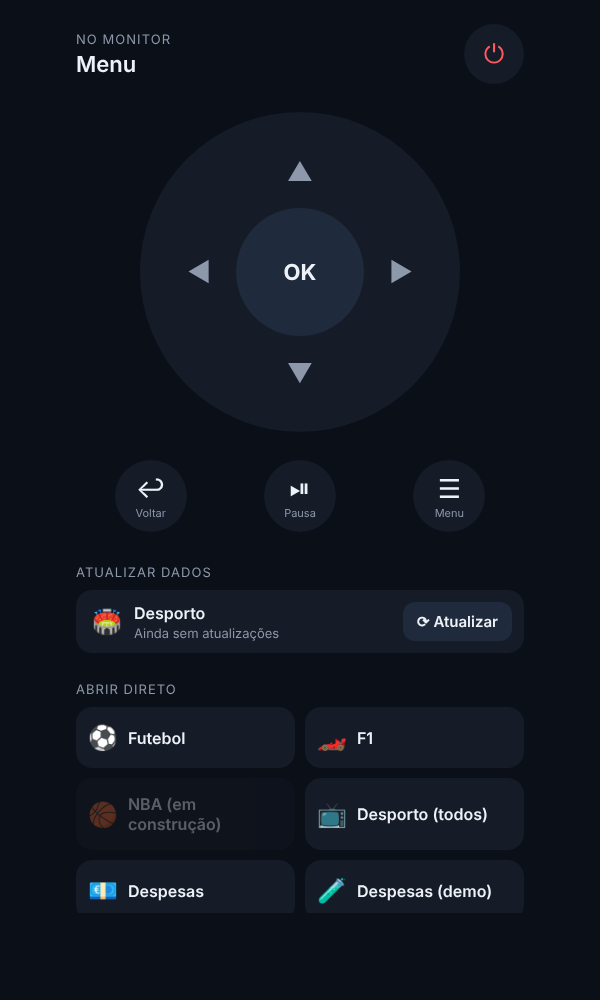
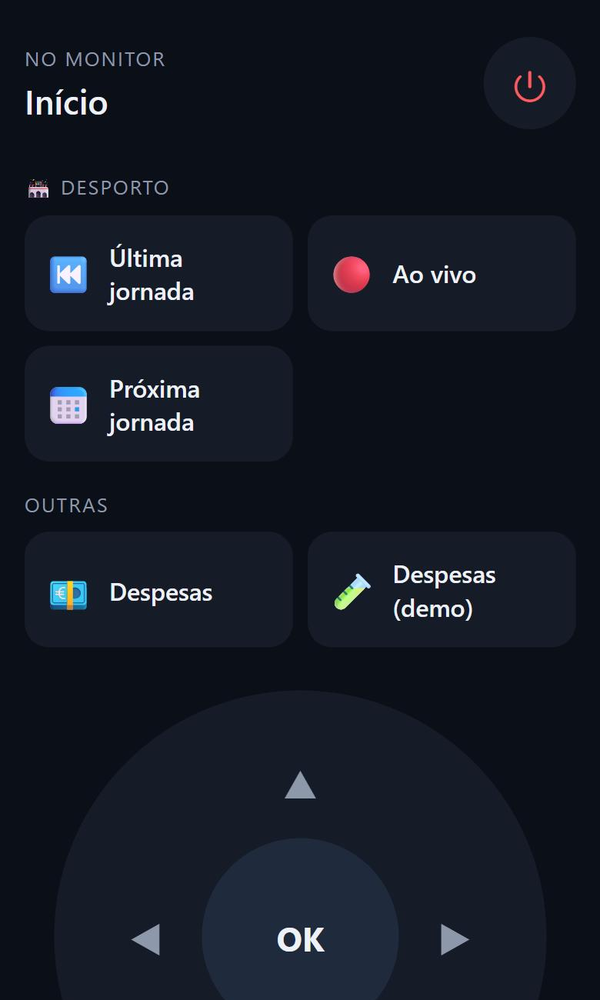
README: versão 1.0 do ecrã, com as capturas do Início e do comando

diff --git a/README.md b/README.md
@@ -1,26 +1,43 @@
 # Super Monitor
 
 Um monitor de 34" na parede, rodado na vertical, que funciona como uma "TV" de casa:
-um menu de apps (desporto, despesas do casal, e o que vier), comandado pelo telemóvel.
-Cada app só corre enquanto está escolhida.
+um ecrã de repouso (o Início) e apps (desporto, despesas do casal, e o que vier), escolhidas e
+comandadas pelo telemóvel. Cada app só corre enquanto está escolhida.
 
 Projeto pessoal, feito em Python (só biblioteca padrão no hub e no desporto) e
 HTML/CSS/JS sem frameworks.
 
 <p align="center">
-  <img src="docs/capturas/hub-menu.png" width="200" alt="Menu do hub no monitor">
+  <img src="docs/capturas/inicio.png" width="200" alt="Início do hub no monitor">
   <img src="docs/capturas/comando.png" width="200" alt="Comando no telemóvel">
   <img src="docs/capturas/desporto-resultados.png" width="200" alt="Resultados da Liga Portugal">
   <img src="docs/capturas/despesas-demo.png" width="200" alt="Despesas do mês (dados fictícios)">
 </p>
 
-> Todas as capturas usam dados fictícios (`?mock=1` no desporto, "Despesas (demo)" no hub).
+> Todas as capturas usam dados fictícios (`?mock=1` no desporto e no Início, "Despesas (demo)" no hub).
+
+## Versão 1.0
+
+A primeira versão fechada do ecrã (tag `v1.0`):
+
+- **Hub:** na parede só o Início (hora, tempo, os jogos de hoje, o FC Porto, a F1, a seleção quando joga nas
+  próximas 2 semanas, notícias), o código, o loading e a app aberta. As apps escolhem-se no comando do
+  telemóvel, agrupadas; ⌂ volta sempre ao Início. Tudo no estilo "Liquid Glass".
+- **Desporto:** três categorias, **Última jornada**, **Ao vivo** (os jogos a decorrer, a atualizar a cada 30 s,
+  com acompanhamento dos escolhidos e destaque dos golos) e **Próxima jornada** (com o que falta da jornada em
+  curso primeiro). Futebol das competições escolhidas, Fórmula 1 e **NBA** (classificação, noite passada, esta
+  noite e prémios). O tempo de cada ecrã depende de quanto mostra.
+- **Despesas:** só totais do mês e os objetivos, com **PIN** (o bloqueio cresce a cada 5 erros) e uma versão
+  demo com dados inventados.
+- **Fontes e definições:** em `/definicoes` escolhem-se as competições e vê-se como correu cada fonte; o comando
+  diz que fontes falharam na última atualização. Configuração local fora do git (`apps.local.json` e
+  `config.local.json` só com o que muda).
 
 ## As partes
 
 | Pasta | O que é |
 |---|---|
-| [`hub/`](hub/) | **MonitorHub.** Servidor (Python, stdlib) com a lista de apps em `apps.json`. O monitor abre sempre a mesma página (menu, ecrã de carregamento, app ativa num iframe); o telemóvel abre `/comando`, uma PWA com setas, OK, voltar, pausa, menu e ⏻. Arranca e para o processo de cada app a pedido. |
+| [`hub/`](hub/) | **MonitorHub.** Servidor (Python, stdlib) com a lista de apps em `apps.json`. O monitor abre sempre a mesma página (o Início, o ecrã de carregamento, a app ativa num iframe); o telemóvel abre `/comando`, uma PWA com as apps, setas, OK, voltar, pausa, ⌂ Início e ⏻. Arranca e para o processo de cada app a pedido. |
 | [`desporto/`](desporto/) | **Dashboard desportivo** 1080×2560: futebol (Liga Portugal, Premier League, La Liga, Bundesliga, Ligue 1, Serie A e taças europeias), Fórmula 1 e NBA, com notícias. Cenas em rotação, controladas pelo comando. Todas as fontes são públicas e sem chave de API (ESPN, Jolpica F1, OpenF1, Record RSS, Wikipédia). |
 | [despesas-casal](https://github.com/LimeWolf9/despesas-casal) (repositório à parte) | **Despesas do casal.** App Streamlit + SQLite que importa extractos bancários em PDF, valida cada um pelos saldos, e categoriza por regras que aprendem com um clique. Exporta só totais (sem movimentos nem saldo) para a página do monitor (`hub/web/apps/despesas.html`). Tem modo demo com dados inventados. |
 
@@ -40,7 +57,7 @@ HTML/CSS/JS sem frameworks.
 - **Atualizar sem abrir a app:** o hub corre o atualizador de uma app e mostra o progresso
   no comando, lendo um JSON de estado que a app escreve.
 - **Código por app:** uma app pode pedir um PIN, marcado no teclado do comando e verificado
-  só no servidor (5 erros = 1 minuto bloqueado).
+  só no servidor (a cada 5 erros o bloqueio cresce: 1, 5, 15 e 60 minutos).
 - **Ecrã desligado:** ⏻ fecha a app e apaga o ecrã; o `config.json` tem ganchos para
   desligar o monitor a sério (ex.: Home Assistant, no futuro).
 
@@ -78,7 +95,7 @@ no monitor que estiver na vertical.
 
 - Correr tudo num mini PC (Linux + Docker) ligado ao monitor, com as apps a arrancar em containers.
 - Home Assistant a mandar os mesmos comandos que o telemóvel (ligar o monitor, abrir uma app).
-- NBA quando começar a época; tempos ao vivo da F1.
+- A F1 ao vivo (o Ao vivo já tem o sítio para ela).
 
 ## Licença
 
